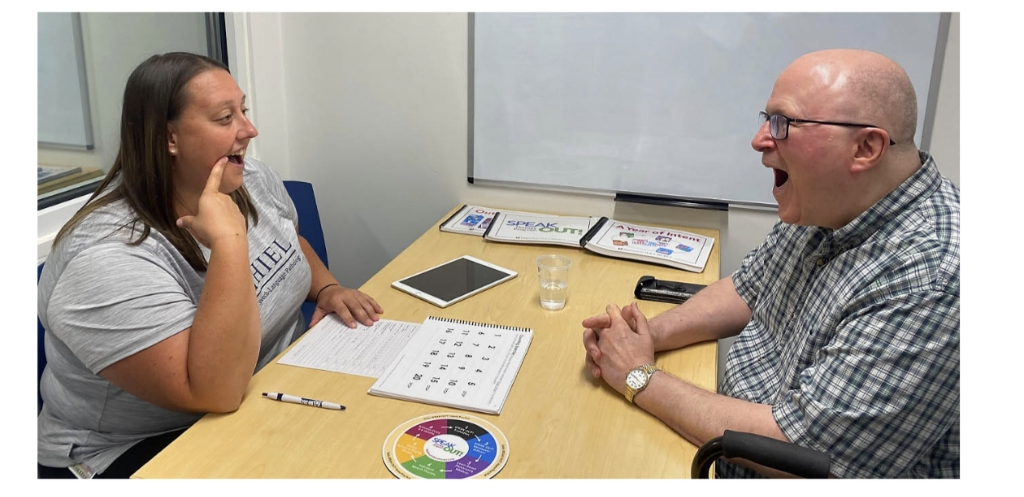
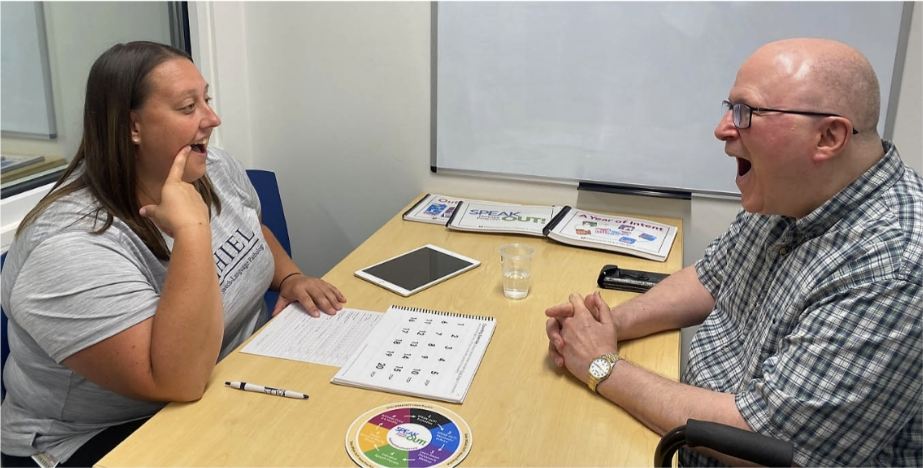
fix(ui): prevent clinical photos from cropping by using landscape aspect ratio and object-contain with ambient backdrop

diff --git a/src/App.tsx b/src/App.tsx
@@ -2270,22 +2270,33 @@ export default function App() {
 
                         return (
                           <>
-                            <div className="relative rounded-2xl overflow-hidden border border-neutral-200 shadow-sm aspect-[4/3] sm:aspect-[16/11] lg:aspect-[4/5] bg-neutral-100 transition-all duration-300">
+                            <div className="relative rounded-2xl overflow-hidden border border-neutral-200/90 shadow-sm aspect-[4/3] sm:aspect-[16/11] lg:aspect-[16/11] bg-stone-900 transition-all duration-300 group">
+                              {/* Ambient blurred backdrop to seamlessly fill any wide or tall photo borders */}
+                              <img
+                                src={resolveImageUrl(displayImage)}
+                                alt=""
+                                aria-hidden="true"
+                                className="absolute inset-0 w-full h-full object-cover blur-xl opacity-35 scale-110 pointer-events-none select-none transition-all duration-500"
+                                onError={(e) => {
+                                  (e.target as HTMLImageElement).src = displayImage;
+                                }}
+                              />
+                              {/* Full uncropped clinical photograph */}
                               <img
                                 key={displayImage}
                                 src={resolveImageUrl(displayImage)}
                                 alt={displayAlt}
-                                className="w-full h-full object-cover object-center transition-all duration-500"
+                                className="relative z-10 w-full h-full object-contain select-none transition-all duration-500"
                                 loading="lazy"
                                 onError={(e) => {
                                   (e.target as HTMLImageElement).src = displayImage;
                                 }}
                               />
-                              <div className={`absolute top-3.5 left-3.5 ${badgeColor} text-[11px] font-mono font-bold px-3 py-1 rounded-full shadow-md transition-all`}>
+                              <div className={`absolute top-3.5 left-3.5 z-20 ${badgeColor} text-[11px] font-mono font-bold px-3 py-1 rounded-full shadow-md transition-all`}>
                                 {displayBadge}
                               </div>
                               {/* Current Service Indicator on Image */}
-                              <div className="absolute bottom-3 left-3 right-3 bg-black/80 backdrop-blur-md rounded-xl p-2.5 text-white text-[11px] font-medium flex items-center justify-between shadow-lg">
+                              <div className="absolute bottom-3 left-3 right-3 z-20 bg-black/80 backdrop-blur-md rounded-xl p-2.5 text-white text-[11px] font-medium flex items-center justify-between shadow-lg">
                                 <span className="truncate font-semibold">
                                   {currentGroup.title}
                                 </span>
